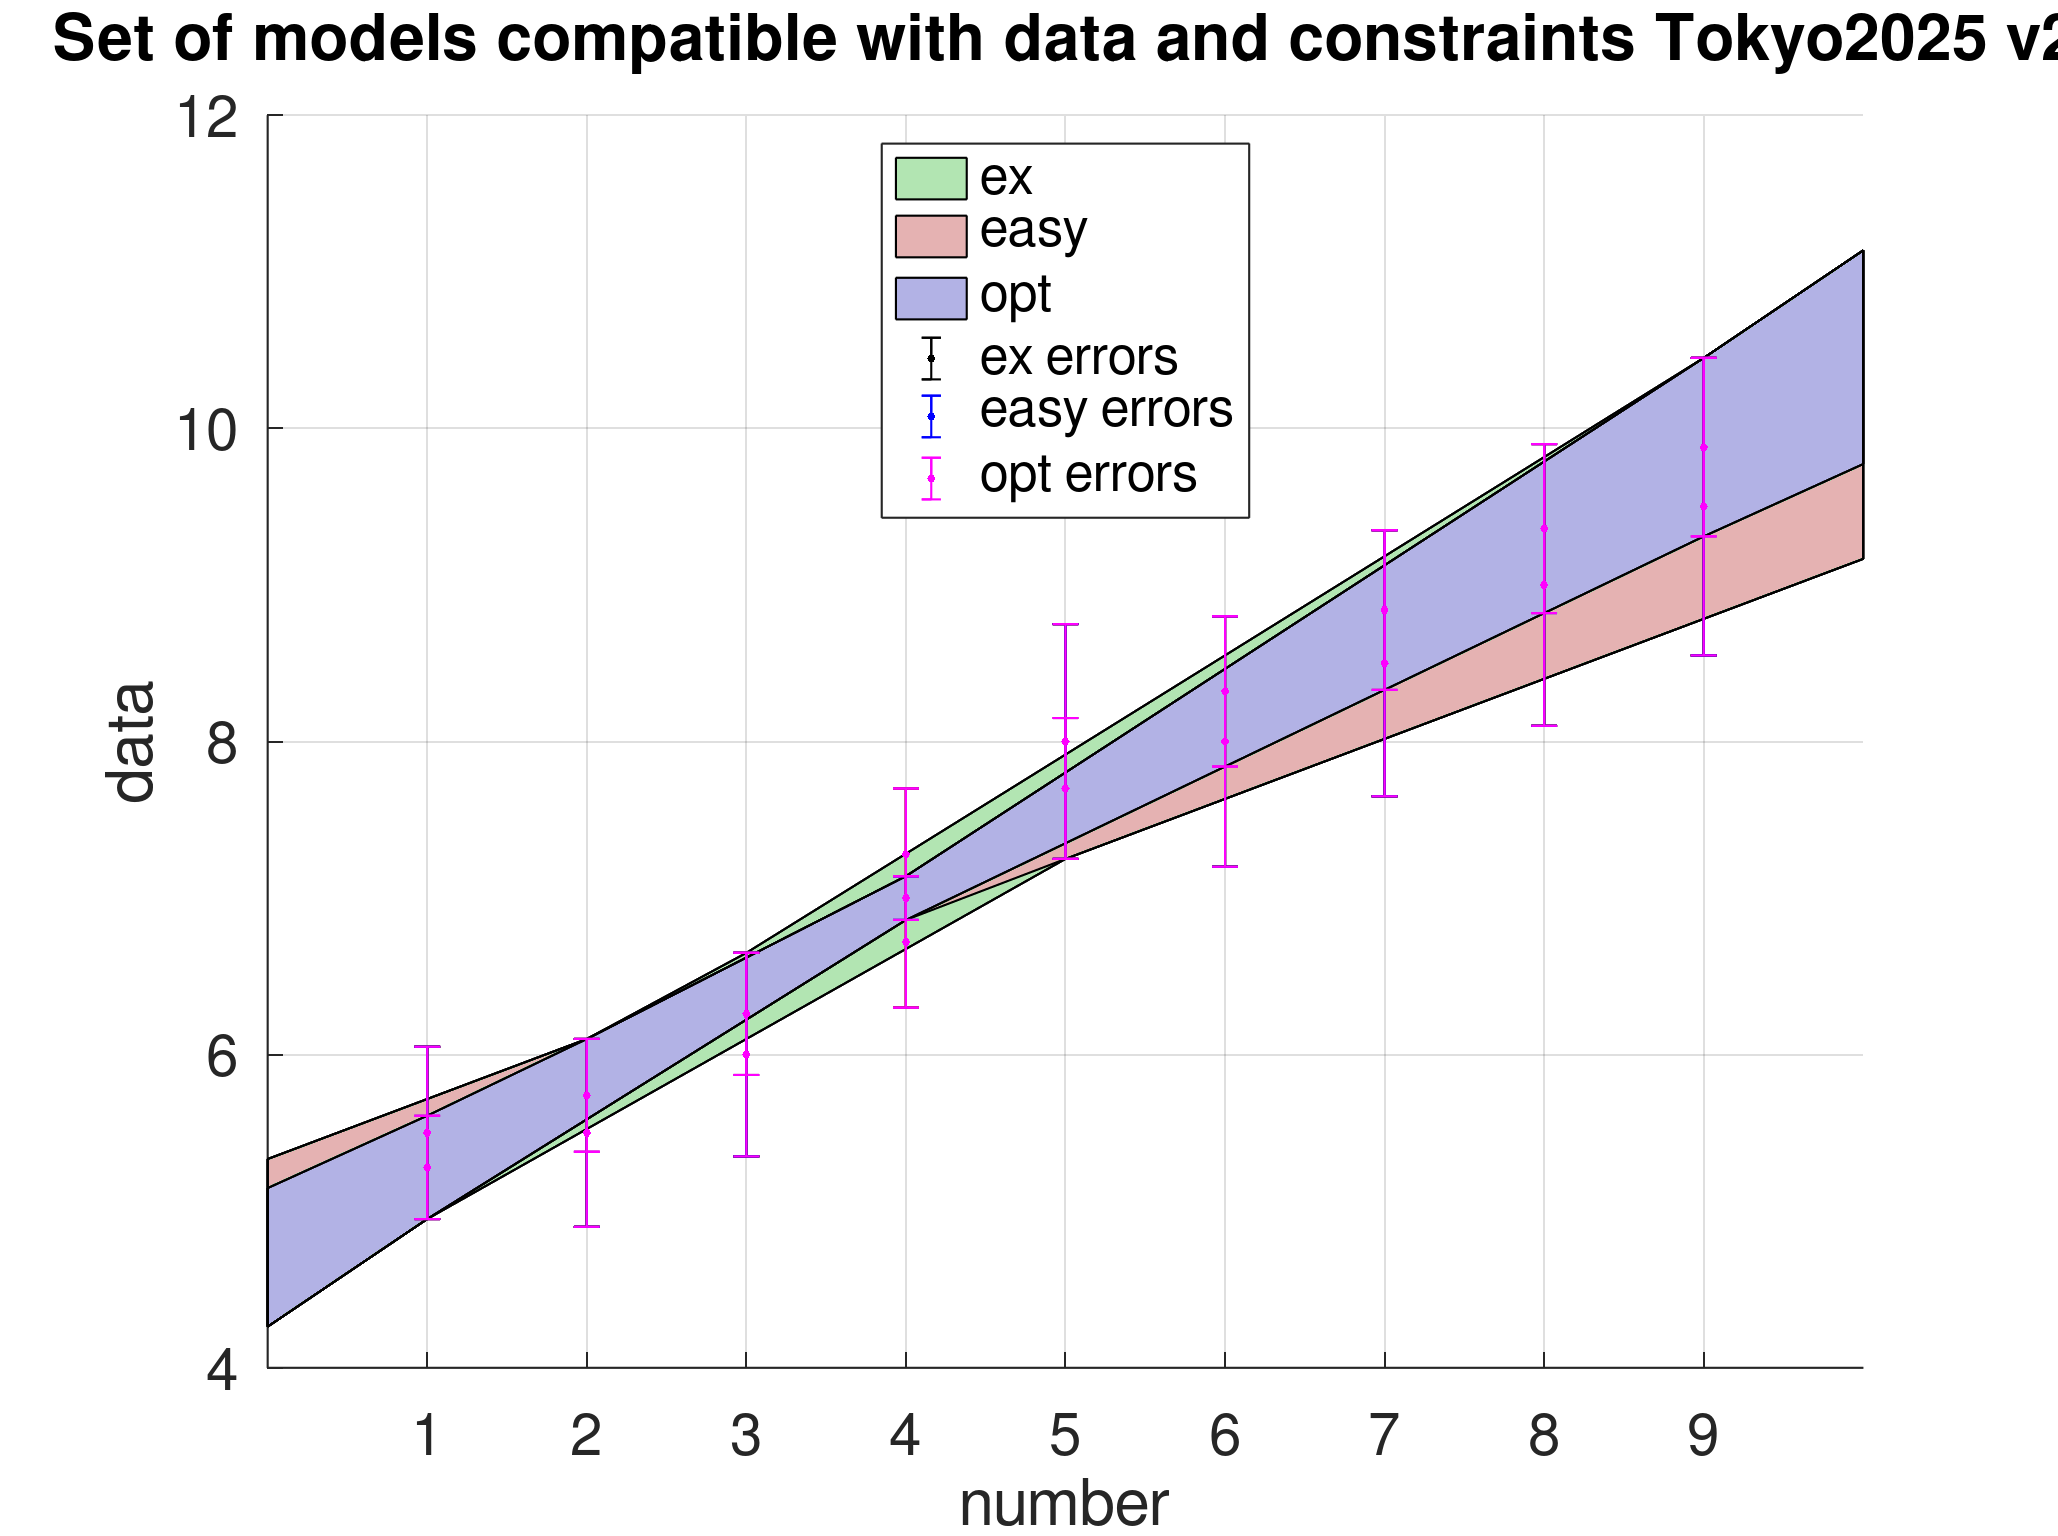
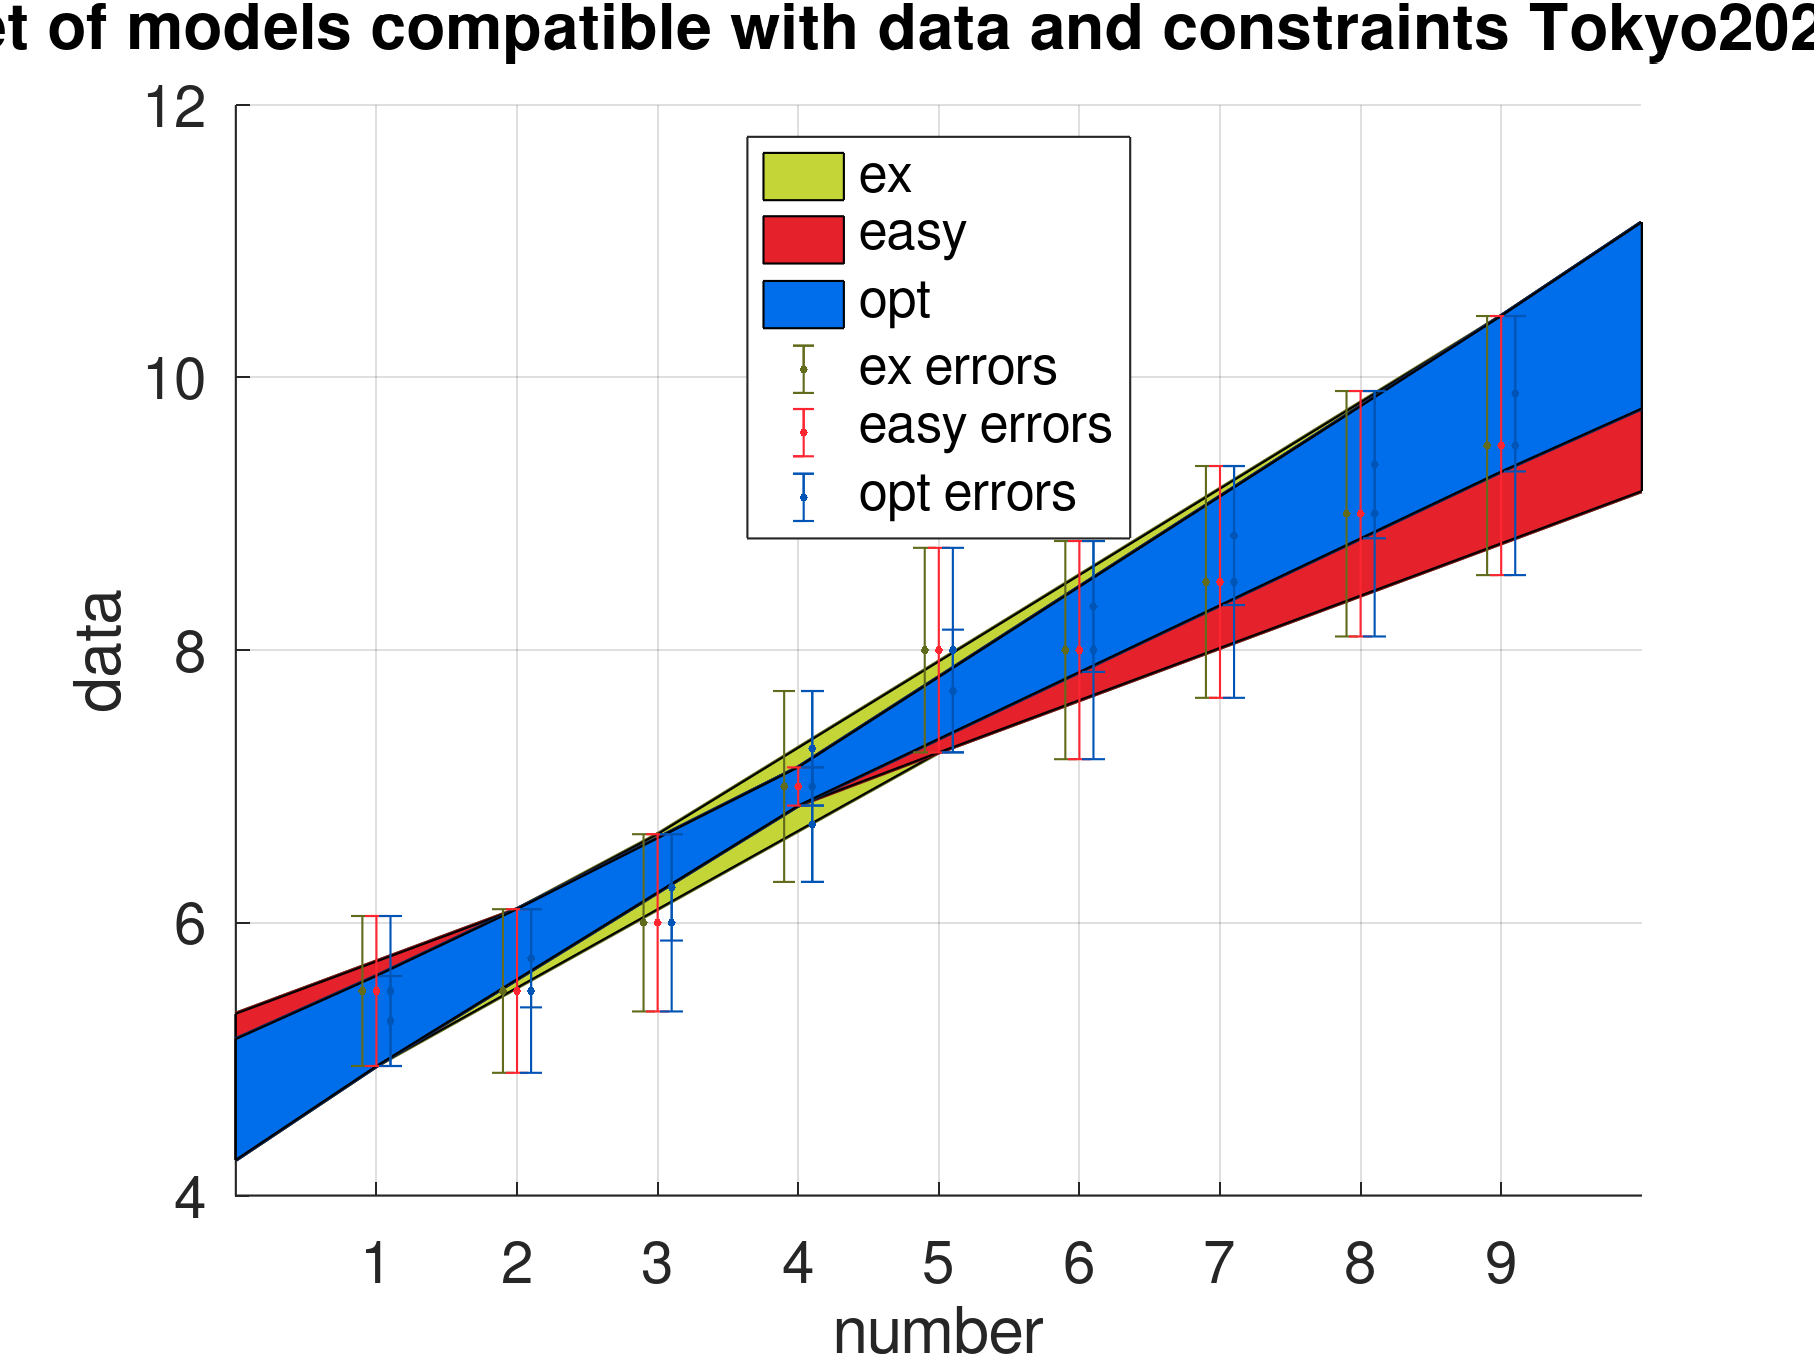
Add files via upload

diff --git a/TolCorr.m b/TolCorr.m
@@ -1,3 +1,4 @@
+
 % 2024-09-27
 % Tokyo icamp2025
 clear all
@@ -15,10 +16,11 @@ dirData = 'e:\Users\Public\Documents\ST\2024\T\icamp2025v2\'
 
 % 2024-08-23
 % HomePC
-##dirroot = 'D:\ST\2024\T\'
-##dirki = 'D:\ST\2024\T\kinterval-0.0.1'
-##dirData = 'D:\ST\2024\T\icamp2025\'
-##dir2023 =  'd:\ST\2023\T\'
+dirroot = 'D:\ST\2024\T\'
+dirki = 'D:\ST\2024\T\kinterval-0.0.1'
+dirData = 'D:\ST\2024\T\icamp2025\'
+dirData = 'd:\ST\2023\T\icamp2025v2\'
+dir2023 =  'd:\ST\2023\T\'
 %%%%%%%%%%%%%%%%%%%%%%%%%%%%%%%%%%%%%%%%%%%%%%%%%%%%%%%%%%%%%%%%%%%%%%%%%%%%%%%
 
 addpath(dirroot)
@@ -30,13 +32,14 @@ cd(dirroot), pwd
 %%%%%%%%%%%%%%%%%%%%%%%%%%%%%%%%% bin ch %%%%%%%%%%%%%%%%%%%%%%%%%%%%%%%%%%%%%%%
 pkg load interval
 dirlinprog = 'e:\Users\Public\Documents\ST\2024\T\octave-interval\m'
-%dirlinprog = 'D:\ST\2024\T\octave-interval\m'
+dirlinprog = 'D:\ST\2024\T\octave-interval\m'
 addpath(dirlinprog)
 dirlinprogpoly = 'e:\Users\Public\Documents\ST\2024\T\octave-interval\m\polytopes\'
-%dirlinprogpoly = 'D:\ST\2024\T\octave-interval\m\polytopes\'
+dirlinprogpoly = 'D:\ST\2024\T\octave-interval\m\polytopes\'
 addpath(dirlinprogpoly)
 %
 dir2D = 'e:\Users\Public\Documents\ST\2024\T\IntLinInc2D\'
+dir2D = 'D:\ST\2024\T\IntLinInc2D\'
 %dirlinprogpoly = 'D:\ST\2024\T\octave-interval\m\polytopes\'
 addpath(dir2D)
 %
@@ -47,19 +50,12 @@ icamp2025data
 icamp2025datav2
 
 %%%%%%%%%%%%%%%%%%%%%%%%%%%%%%%%%%%%%%%%%%%%%%%%%%%%%%%%%%%%%%%%%%%%%%%%%%%%%%%%
-
+Colors_special
 
  [V,P1,P2,P3,P4]=EqnTol2D(xx4opt,xx4opt,b_opt_left4,b_opt_rigth4)
  Part_SSW_color(P1,P2,P3,P4, [ 0 1 0])
 hold on
 %
-POS = [ inf(xBeck(1)),inf(xBeck(2)), 2*rad(xBeck(1)),  2*rad(xBeck(2)) ]
-rectangle( "Position", POS, "EdgeColor", [0 0 1] )
-POS = [ -theta, -theta, 2*theta, 2*theta ]
-rectangle( "Position", POS,  "EdgeColor", [1 0 0]  )
-xlabel('\it x_1')
-ylabel('\it x_2')
-set(gca, "Fontsize", 14)
 %%%%%%%%%%%%%%%%%%%%%%%%%%%%%%%%%%%%%%%%%%%%%%%%%%%%%%%%%%%%%%%%%%%%%%%%%%%%%%%%
 [tolmax,argmax, env] = tolsolvty(xx,xx,b_ex_left,b_ex_rigth,1);
 [tolmax,argmax_in, env_in] = tolsolvty(xx,xx,b_in_left,b_in_rigth,1)
@@ -73,11 +69,11 @@ set(gca, "Fontsize", 14)
 ##2) corridor
 
 %%%%%%%%%%%%%%%%%%%%%%%%%%%%%%%%%%%%%%%%%%%%%%%%%%%%%%%%%%%%%%%%%%%%%%%%%%%%%%%%
-% internal
-y_in = (b_in_left + b_in_rigth)/2;
-epsilon_in = (-b_in_left + b_in_rigth)/2;
-irp_T2025_in = ir_problem(xx, y_in, epsilon_in);
-b_in = ir_outer(irp_T2025_in)
+##% internal
+##y_in = (b_in_left + b_in_rigth)/2;
+##epsilon_in = (-b_in_left + b_in_rigth)/2;
+##irp_T2025_in = ir_problem(xx, y_in, epsilon_in);
+##b_in = ir_outer(irp_T2025_in)
 
 % external
 y_ex = (b_ex_left + b_ex_rigth)/2;
@@ -85,20 +81,11 @@ epsilon_ex = (-b_ex_left + b_ex_rigth)/2;
 irp_T2025_ex = ir_problem(xx, y_ex, epsilon_ex);
 b_ex = ir_outer(irp_T2025_ex);
 
-figure
-ir_plotbeta(irp_T2025_ex)
-hold on
-%ir_plotrect(b_ex,'r-')
-grid on
-set(gca, 'fontsize', 12)
-xlabel('\beta_0')
-ylabel('\beta_1')
-title('Information set external')
-titlestr=strcat('Information set external', ' icamp2025')
-title(titlestr)
-figure_name_out=strcat(titlestr, '.png')
-print('-dpng', '-r300', figure_name_out), pwd
-% external
+%%%%%%%%%%%%%%%%%%%%%%%%%%%%%%%%%%%%%%%%%%%%%%%%%%%%%%%%%%%%%%%%%%%%%%%%%%%%%%%%
+% 2024-10-02
+InfoSet
+%%%%%%%%%%%%%%%%%%%%%%%%%%%%%%%%%%%%%%%%%%%%%%%%%%%%%%%%%%%%%%%%%%%%%%%%%%%%%%%%
+
 
 % easy
 y_easy = (b_easy_left + b_easy_rigth)/2;
@@ -110,6 +97,7 @@ ir_plotbeta(irp_T2025_easy)
 y_opt = (b_opt_left4 + b_opt_rigth4)/2;
 epsilon_opt= (-b_opt_left4 + b_opt_rigth4)/2;
 irp_T2025_opt = ir_problem(xx4opt, y_opt, epsilon_opt);
+%
 ir_plotbeta(irp_T2025_opt)
 titlestr=strcat('Information set', ' icamp2025=', ' ex', ' easy', ' opt')
 titlestr=strcat('Information set', ' icamp2025v2=', ' ex', ' easy', ' opt')
@@ -122,6 +110,7 @@ figure
 xlimits = [0 10];
 hold on
 pcolor = [0.7 0.9 0.7]
+pcolor = 2*Pantone
 [px,py]= ir_plotmodelset_c(irp_T2025_ex, xlimits, pcolor)
  h1 =  patch(px,py,pcolor);
 ##   plot(px,py(:,1),"m-","LineWidth",1, "color", 0.5*pcolor);
@@ -130,22 +119,30 @@ pcolor = [0.7 0.9 0.7]
 
 %
 pcolor = [0.9 0.7 0.7]
+pcolor = RoyalMail
 [px,py]= ir_plotmodelset_c(irp_T2025_easy, xlimits, pcolor)
  h2 =  patch(px,py,pcolor);
+ set(h2, 'facecolor', 0.9*RoyalMail)
+
 pcolor = [0.7 0.7 0.9]
+pcolor = OxfordBlue
 [px,py]=  ir_plotmodelset_c(irp_T2025_opt, xlimits, pcolor)
  h3 =  patch(px,py,pcolor);
-
+ set(h3, 'facecolor', 1.3*OxfordBlue)
 
 ##
 ## %
 ##ir_scatter(irp_T2025_in,'b.')
 ##ir_scatter(irp_T2025_ex,'bo')
 
-h4 = errorbar(xx(:,1), y_ex, epsilon_ex,'.k');
+h4 = errorbar(xx(:,1)-0.1, y_ex, epsilon_ex,'.g');
+set(h4, 'color', Pantone)
 %h5 = errorbar(xx(:,1), y_in, epsilon_in,'.b');
-h5 = errorbar(xx(:,1), y_easy, epsilon_easy,'.b');
-h6 = errorbar(xx4opt(:,1), y_opt, epsilon_opt,'.m');
+h5 = errorbar(xx(:,1), y_easy, epsilon_easy,'.r');
+set(h5, 'color', RoyalMail)
+h6 = errorbar(xx4opt(:,1)+0.1, y_opt, epsilon_opt,'.b');
+set(h6, 'color', OxfordBlue)
+
 
 lgd123 = legend([h1 h2 h3 h4 h5 h6], ...
   {'ex', 'easy', 'opt', 'ex errors', 'easy errors', 'opt errors'})
@@ -165,3 +162,4 @@ titlestr = strcat('Set of models compatible with data and constraints', ' Tokyo2
 title(titlestr)
 figure_name_out=strcat(titlestr, '.png')
 print('-dpng', '-r300', figure_name_out), pwd
+
